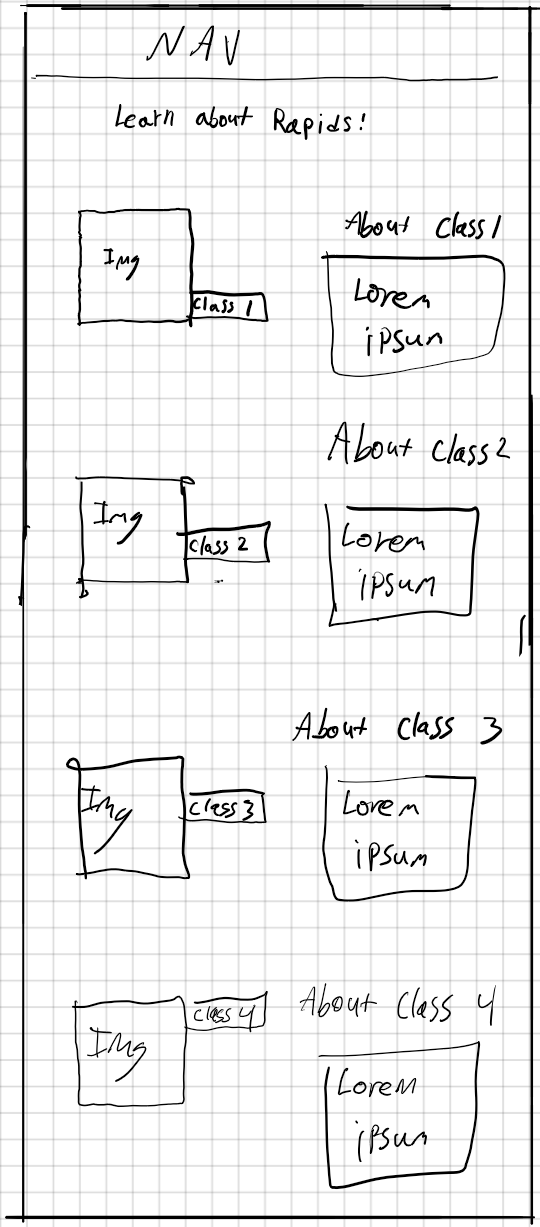
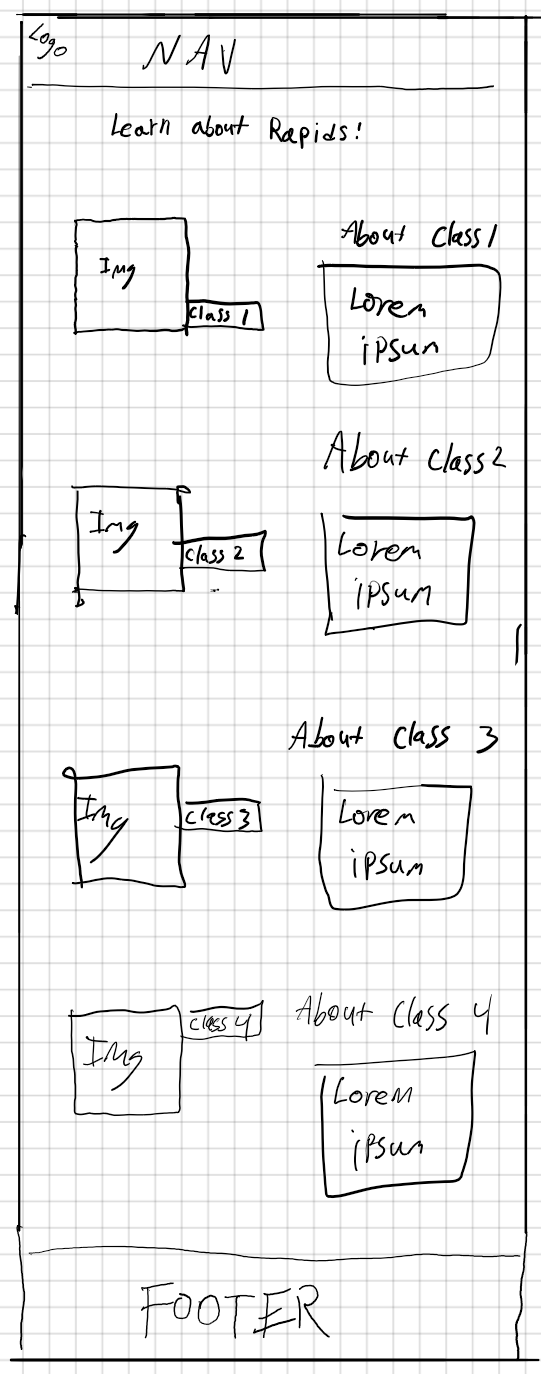
created second page 'about rapids'

Changed region(s): [[0.0, 0.0, 1.0, 1.0]]

diff --git a/wwr/about-rapids.html b/wwr/about-rapids.html
@@ -1,0 +1,89 @@
+<!DOCTYPE html>
+<html lang="en">
+<head>
+    <meta charset="UTF-8">
+    <meta http-equiv="X-UA-Compatible" content="IE=edge">
+    <meta name="viewport" content="width=device-width, initial-scale=1.0">
+    <title>About Rapids</title>
+    <link type="text/css" rel="stylesheet" href="styles/style.css" />
+</head>
+<body>
+    <div id="content">
+        <header>
+            <a href="index.html">
+                <img id="logo-pic" src="images/pixomatic_1642103494544.png" alt="Logo image" >
+            </a>
+            <nav class="navigation">
+                <a href="index.html" target="_blank">Home</a> 
+                <a href="about-rapids.html" target="_blank">About Rapids</a>
+                <a href="site-plan-rafting.html" target="_blank">Site Plan</a>
+                <a href="contactus.html" target="_blank">Contact Us</a>
+            </nav>
+        </header>
+    </div>
+    <div id="page2-hero">
+        <section id="hero-2message">
+            <h1 class="hero-title"> Learn about the rapids!</h1>
+            <h4>Stay safe out there</h4>
+            <p>While riding the white water can be a fantastic and thrilling experience, mother nature commands her rivers with a power we must respect. Learn about the different classes of rapids, and which ones work for you and your skills.</p>
+        </section>
+    </div>
+
+
+
+    <main class="page2-grid">
+        <section class="class-1">
+            <h1>Class 1</h1>
+            <img class="grid-1" src="images/Class-1-River-Rapids.png" alt="class 1">
+            <p>Class 1 rapids are the perfect start for those new to water activities. Class 1 is classified as a smooth, yet swift river.</p>
+        </section>
+        <section class="class-2">
+            <h1>Class 2</h1>
+            <img class="grid-2" src="images/class-2.jpg" alt="class 2">
+            <p>Class 2 rapids are faster and rougher than class 1, and a perfect start for those new to rafting. Everything is dangerous no matter the class. Just because Class 2 is still a lower catgory does not mean it is harmless. A life jacket is strongly reccomended at this point, as well as a helmet.</p>
+        </section>
+        <section class="class-3">
+            <h1>Class 3</h1>
+            <img class="grid-3" src="images/class-3-or-4-rapids.jpg" alt="class 3">
+            <p>Class 3 is where the fun begins! While still managable for beginners, it is necessary for you to have an experienced guide to lead you through the gauntlet. It is also required for you to be able to swim at this stage.</p>
+        </section>
+        <section class="class-4">
+            <h1>Class 4</h1>
+            <img class="grid-4" src="images/calss-4.jpg" alt="class 4">
+            <p>Class 4 can be dangerous if you don't know what to do. At this point, only experienced rafters should attempt a class 4.</p>
+        </section>
+    </main>
+    <div>
+        <section class="footnote">
+        <h4>Rapid classes go from 1 all the way to 6, but our services only take you as high as 4. Please visit another webiste, such as the one below, for more adrenaline pumping action!</h4>
+        <a class='alternate-link' href="https://whitewater.net/extreme-colorado-white-water-rafting/" target="_blank">Click here</a>
+        </section>
+    </div>
+
+
+
+    <footer>    
+        <h3>Wicked Water Rafting &copy; 2022 - Owen Cleland</h3>
+        <h3><a href="site-plan-rafting.html" target="_blank">Site Plan</a></h3>
+        <h3><a href="contactus.html" target="_blank">Contact Us</a></h3>
+        <div class="social-image" >
+
+            <a href="https://reddit.com" target="_blank">
+            <img src="images/redditlogo.png" alt="Reddit logo"> 
+            </a>
+
+            <a href="https://www.4chan.org" target="_blank"> 
+                <img src="images/4chan-Emblem.png" alt="4 chan logo">
+            </a>
+
+            <a href="https://twitch.tv" target="_blank">
+                <img src="images/twitch.png" alt="twitch logo">
+            </a>
+
+            <a href="https://www.krispykreme.com" target="_blank">
+                <img src="images/krispy-kreme-logo.png" alt="krispy kreme logo">
+            </a>
+        </div>
+    </footer>
+</body>
+</html>

diff --git a/wwr/styles/style.css b/wwr/styles/style.css
@@ -282,11 +282,69 @@ main section img {
 }
 
 
+
 #page2-hero{
-    display: grid;
-    grid-template-columns: repeat(4, 1fr);
+    text-align: center;
+    margin: 0 auto;
+    max-width: 500px;
 }
 
-#hero-message{
+.page2-grid{
+    display: grid;
+    grid-template-columns: repeat(2, 1fr);
+}
+
+.grid-1{
+    width: 75%;
+    box-shadow: 5px 5px 10px #333333;
+}
+
+.grid-2{
+    width: 75%;
+    box-shadow: 5px 5px 10px #333333;
+}
+
+.grid-3{
+    width: 75%;
+    box-shadow: 5px 5px 10px #333333;
+
+}
+
+.grid-4{
+    width: 75%;
+    box-shadow: 5px 5px 10px #333333;
+}
+
+.page2-grid p{
+    margin-left: 100px;
+    margin-right: 100px;
+    
+}
+
+.page2-grid h1{
+    margin-top: 35px;
+}
+
+.footnote{
     text-align: center;
+    margin: 0 auto;
+    margin-top: 150px;
+    max-width: 500px;
+    border: 10px solid rgb(211, 186, 153);
+    
+}
+
+.alternate-link{
+    color: #333333;
+    text-decoration: none;
+    font-size: 18px;
+    padding: 15px 30px;
+    margin-top: 50px;
+    border-radius: 50px;
+    font-family: Nunito Sans;
+}
+
+.alternate-link:hover{
+    background-color: #47A8BD;
+    color: #F9F9ED;
 }

diff --git a/wwr/index.html b/wwr/index.html
@@ -15,7 +15,7 @@
             </a>
             <nav class="navigation">
                 <a href="index.html" target="_blank">Home</a> 
-                <a href="#" target="_blank">Page 2</a>
+                <a href="about-rapids.html" target="_blank">About Rapids</a>
                 <a href="site-plan-rafting.html" target="_blank">Site Plan</a>
                 <a href="contactus.html" target="_blank">Contact Us</a>
             </nav>
